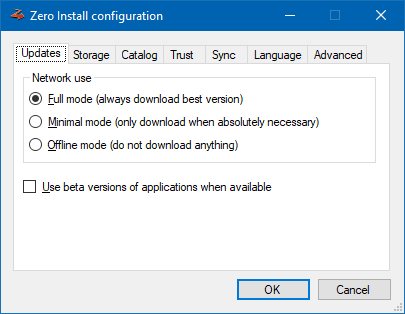
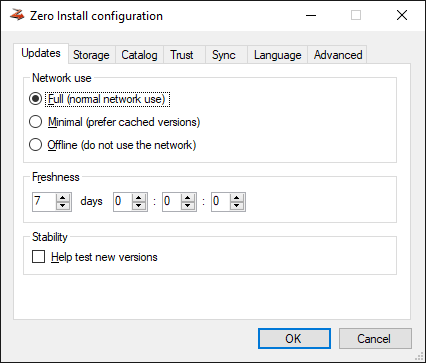
Improved "Policy settings" page

Changed region(s): [[0.0, 0.0, 1.0, 1.0]]

diff --git a/docs/details/policy-settings.md b/docs/details/policy-settings.md
@@ -6,82 +6,82 @@ The first part shows how to set policy settings that apply to all applications o
 
 ## General policy settings
 
-You can change the policy settings using the Preferences dialog. To open it run `0install config` (`0install-win config` on Windows).
+=== "Linux"
 
-If you use the GNOME/KDE menu: choose **Zero Install -> Manage Applications** from the **Applications** menu, click on the edit properties icon next to an application and click Preferences:
+    You can change the policy settings using the Preferences dialog.
 
-![0desktop --manage](../img/screens/manage-apps.png)
+    To open it run `0install config` or choose **Zero Install -> Manage Applications** from the **Applications** menu, click on the edit properties icon next to an application and click Preferences.
 
-You can affect which versions are chosen by changing your policy. Three aspects of your policy are shown in the Preferences window: **Network use**, **Freshness** and **Help test new versions**:
+    ![The Preferences dialog](../img/screens/preferences.png)
 
-![The Preferences dialog](../img/screens/preferences.png)
+=== "Windows"
 
-If you use Zero Install for Windows: click on **Options** in the bottom left to get this interface:
+    You can change the policy settings using the Configuration dialog.
 
-![The Configuration dialog](../img/screens/0install-win/config.png)
+    To open it run `0install-win config` or click on the **Options** in the bottom left of the main GUI.
+
+    ![The Configuration dialog](../img/screens/0install-win/config.png)
 
 ### Network use
 
 Affects how much 0install will rely on the network. Possible values are:
 
-Full
-: Normal network use.
-
-Minimal
-: 0install will prefer cached versions over non-cached ones.
-
-Off-line
-: 0install will not use the network.
+| Value    | Effect                                                     |
+| -------- | ---------------------------------------------------------- |
+| Full     | Normal network use.                                        |
+| Minimal  | 0install will prefer cached versions over non-cached ones. |
+| Off-line | 0install will not use the network.                         |
 
 ### Freshness
 
-0install caches its feeds as well. It checks for updates to the feeds from time to time. The freshness indicates how old a feed may get before 0install automatically checks for updates to it. Note that 0install only checks for updates when you actually run a program; so if you never run something, it won't waste time checking for updates.
-
-If you notice a feed is out of date, you can force 0install to look for updates by clicking the **Refresh all now** button
+0install caches feeds and checks for updates from time to time. The freshness indicates how old a feed may get before 0install automatically checks for updates to it. Note that 0install only checks for updates when you actually run a program; so if you never run something, it won't waste time checking for updates.
 
 ### Help test new versions
 
 By default, 0install tries not to select new versions while they're still in the "testing" phase. If checked, 0install will instead always select the newest version, even if it's marked as "testing".
 
-Note that all changes to your policy are saved as soon as you make them. Clicking on **Cancel** will close the window without running the program, but any changes made to the policy are not reversed.
-
 ## Per-application policy settings
 
-You can change per-application policy settings in the application information dialog. There are multiple ways to opening this dialog:
+You can change per-application policy settings in the application information dialog. To open this dialog:
 
-1.  -   Run "0install run" with the `--gui` (`--customize` on Windows) option and the URI of the application
-        
-        `$ 0install run --gui http://rox.sourceforge.net/2005/interfaces/Edit`
+=== "Linux"
 
-        `> 0install run --customize https://apps.0install.net/gui/vlc.xml`
-        
-    -   Run "0install update" with a shortcut you made as first argument
-        
-        `$ 0install update --gui rox-edit`
+    1.  Run `0install run` with the `--gui` option and the URI of the application:
+        ```shell
+        $ 0install run --gui http://rox.sourceforge.net/2005/interfaces/Edit
+        ```
 
-        `> 0install update --customize vlc`
-        
-    -   If you use the GNOME/KDE menu: choose **Zero Install -> Manage Applications** from the **Applications** menu, click on the edit properties icon next to the application:
-        
+        -or-
+
+        Choose **Zero Install -> Manage Applications** from the **Applications** menu, click on the edit properties icon next to the application.  
         ![0desktop --manage](../img/screens/manage-apps.png)
-        
-2.  Double-click the application in the list. For example, double-clicking on **Edit** displays this dialog box:
-    
-    ![Properties of the Edit interface](../img/screens/edit-properties.png)
-    
+
+    2.  Double-click the application in the list. For example, double-clicking on **Edit** displays this dialog box:  
+        ![Properties of Edit](../img/screens/edit-properties.png)  
+        ![Versions of Edit](../img/screens/edit-versions.png)
+
+=== "Windows"
+
+    1.  Run `0install run` with the `--customize` option and the URI of the application:
+        ```shell
+        > 0install run --customize https://apps.0install.net/gui/vlc.xml
+        ```
+
+        -or-
+
+        In the main GUI open the dropdown menu next to an App's **Run** button, select **Run with options**, set the **Customize version** checkbox and click **OK**.  
+        ![Run options](../img/screens/0install-win/run-options.png)
+
+    2.  Click on the **Change** link next to the application. This displays this dialog box:  
+        ![Versions](../img/screens/0install-win/versions.png)
+
 ### Feeds
 
-In the Feeds tab, a list of feeds shows all the places where Zero Install looks for versions of Edit. By default, there is just one feed, whose URL is simply Edit's URI; you can view it in a web browser if you're interested: [Edit's default feed](http://rox.sourceforge.net/2005/interfaces/Edit). This is an XML file with a GPG signature at the end. The downloaded feed files are stored locally in `~/.cache/0install.net/interfaces` (see [File locations](file-locations.md)).
+In the Feeds tab, a list of feeds shows all the places where Zero Install looks for versions of the app. By default, there is just one feed with the URL you just entered. You can register additional feeds to be considered (e.g., a [local feed](../packaging/local-feeds.md) with custom builds or an alternate remote feed). This can be done either using the GUI or with the [`0install add-feed`](../details/cli.md#add-feed) command.
 
 ### Versions
 
-The Versions tab shows all the versions found in all of the feeds:
-
-![Versions of the Edit](../img/screens/edit-versions.png)
-
-![Zero Install for Windows - Versions](../img/screens/0install-win/versions.png)
-
-You can use the **Preferred Stability** setting in the interface dialog to choose which versions to prefer. You can also change the stability rating of any implementation by clicking on it and choosing a new rating from the popup menu (drop-down in the **Override** column on Windows). User-set ratings are shown in capitals.
+In the Versions tab, you can use the **Preferred Stability** setting in the interface dialog to choose which versions to prefer. You can also change the stability rating of any implementation by clicking on it and choosing a new rating from the popup menu (drop-down in the **Override** column on Windows). User-set ratings are shown in capitals.
 
 As you make changes to the policy and ratings, the selected implementation will change. The version shown in bold (or at the top of the list, in some versions) is the one that will actually be used. In addition to the ratings below, you can set the rating to **Preferred**. Such versions are always preferred above other versions, unless they're not cached and you are in Off-line mode.
 
